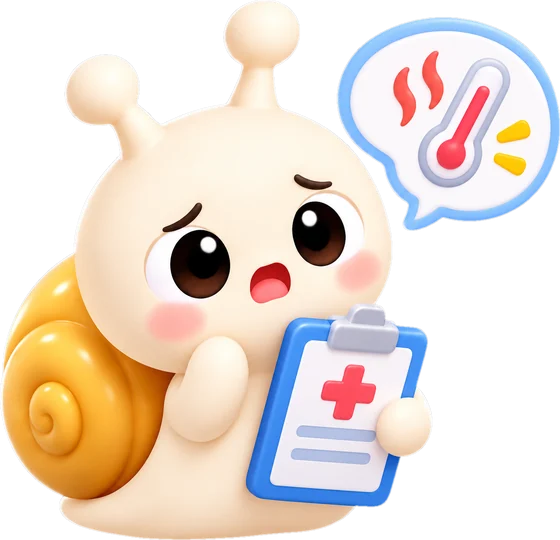
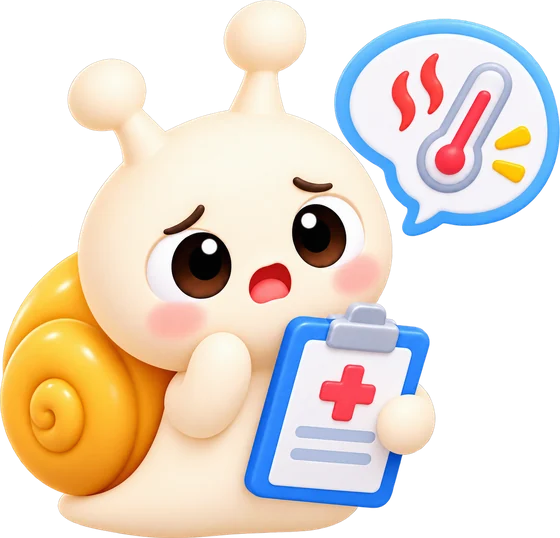
v278 병원·약국 일러스트를 투명 배경 원본으로 교체
Claude-Session: https://claude.ai/code/session_01SwdayPtEGDbroqcs1JckPk

diff --git a/sw.js b/sw.js
@@ -1,5 +1,5 @@
 /* 팽팽이 서비스 워커: 앱 파일을 저장해 두고(오프라인 열기), 복습 알림을 보여 줘요. */
-var CACHE = 'pangpang-v277';   // 배포마다 APP_VERSION과 함께 올려요(이 파일이 바뀌어야 새 버전이 설치돼요. 앱을 다시 열면 적용돼요)
+var CACHE = 'pangpang-v278';   // 배포마다 APP_VERSION과 함께 올려요(이 파일이 바뀌어야 새 버전이 설치돼요. 앱을 다시 열면 적용돼요)
 var SHELL = ['./', 'index.html', 'styles.css', 'config.js', 'lessons.js', 'scenes.js', 'grammar.js', 'phrases.js', 'grade.js', 'hangul.js', 'variants.js', 'hsk.js', 'app.js',
   'manifest.webmanifest', 'img/ic-heart.webp', 'img/ai-promo.webp', 'img/ic-heart-empty.webp', 'img/ic-grad-cap.webp', 'img/ic-chain.webp', 'img/ic-flame.webp', 'img/ic-medal.webp', 'img/ic-trophy.webp', 'img/ic-stage-flag.webp', 'img/ch-trophy.webp', 'img/ch-love.webp', 'img/ch-clear.webp', 'img/ch-grad.webp', 'img/ch-sad.webp', 'img/ch-cheer.webp', 'img/ch-focus.webp', 'img/ch-fire.webp', 'img/sc-done.webp', 'img/ai-load1.webp', 'img/ai-load2.webp', 'img/rd-sad1.webp', 'img/rd-sad2.webp', 'img/gs-quiz.webp', 'img/gs-chain.webp', 'img/gs-tone.webp', 'img/gs-rain.webp', 'img/icon-192.png', 'img/badge-96.png', 'img/icon-512.png', 'img/icon-maskable-512.png', 'img/snail-cheer.webp', 'img/pp-cheer.webp', 'img/pp-calm.webp', 'img/pp-wink.webp', 'img/snail-reading.webp', 'img/snail-phone-body.webp', 'img/snail-phone-blink.webp', 'img/snail-phone-marks.webp', 'img/pm/hello-body.webp', 'img/pm/hello-blink.webp', 'img/pm/hello-nihao.webp', 'img/pm/hello-annyeong.webp', 'img/pm/book-body.webp', 'img/pm/book-blink.webp', 'img/pm/ai-body.webp', 'img/pm/ai-blink.webp', 'img/pm/ai-marks.webp', 'img/pm/laptop-body.webp', 'img/pm/laptop-blink.webp', 'img/pm/laptop-desk.webp', 'img/qz-ok.webp', 'img/qz-no.webp', 'img/hm-sonagi.webp', 'img/hm-sungjo.webp', 'img/hm-kisa.webp', 'img/hm-quiz.webp', 'img/hm-game.webp', 'img/td-happy.webp', 'img/td-rest.webp', 'img/td-calm.webp', 'img/td-care.webp', 'img/td-restless.webp', 'img/td-beg.webp', 'img/td-cookie.webp', 'img/voice-snail.webp', 'img/voice-man.webp', 'img/voice-woman.webp', 'audio/voice-yuxuan.mp3', 'audio/voice-meiting.mp3', 'img/sc-parcel.webp', 'img/sc-cafe.webp', 'img/sc-cvs.webp', 'img/sc-clinic.webp', 'img/sc-restaurant.webp', 'img/sc-lunch.webp'];
 

diff --git a/app.js b/app.js
@@ -38,7 +38,7 @@
     }, wait);
   }
 
-  var APP_VERSION = 'v277';
+  var APP_VERSION = 'v278';
 
   var QMAP = {};
   LESSONS.concat(GRAMMAR).forEach(function (l) { l.qs.forEach(function (q) { QMAP[q.id] = q; }); });

diff --git a/README.md b/README.md
@@ -987,3 +987,6 @@ select kind, count(*) n, round(avg(in_tokens)) avg_in, round(avg(cache_read)) av
 
 ## v277
 - 상황 카드 일러스트 4개 추가: 편의점에서 계산하기, 병원·약국 가기, 식당에서 주문하기, 점심 약속 잡기(`img/sc-*.webp`). 병원 이미지는 검은 배경을 지워 투명하게 만들었어요.
+
+## v278
+- 병원·약국 가기 일러스트를 투명 배경 원본으로 교체했어요.
